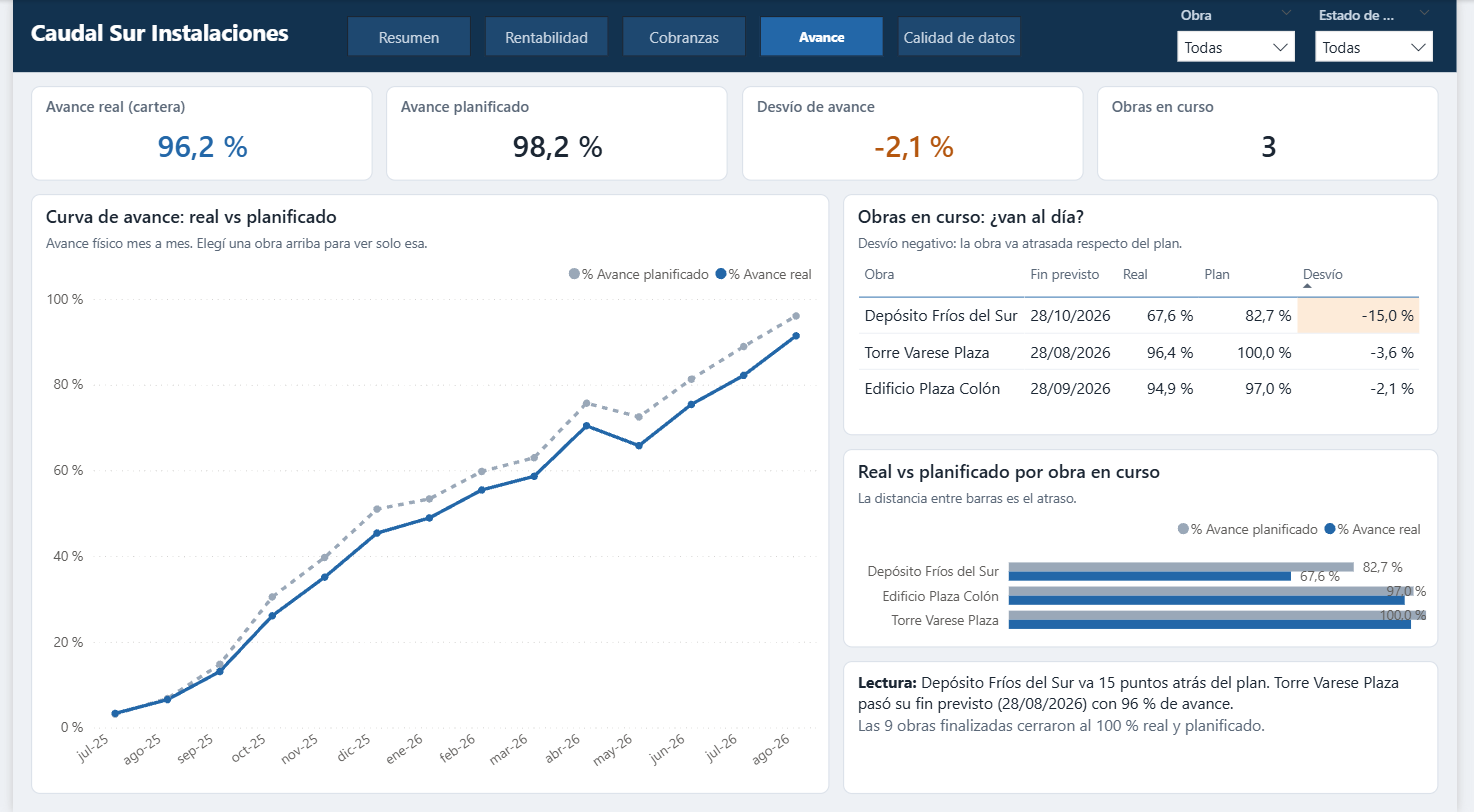
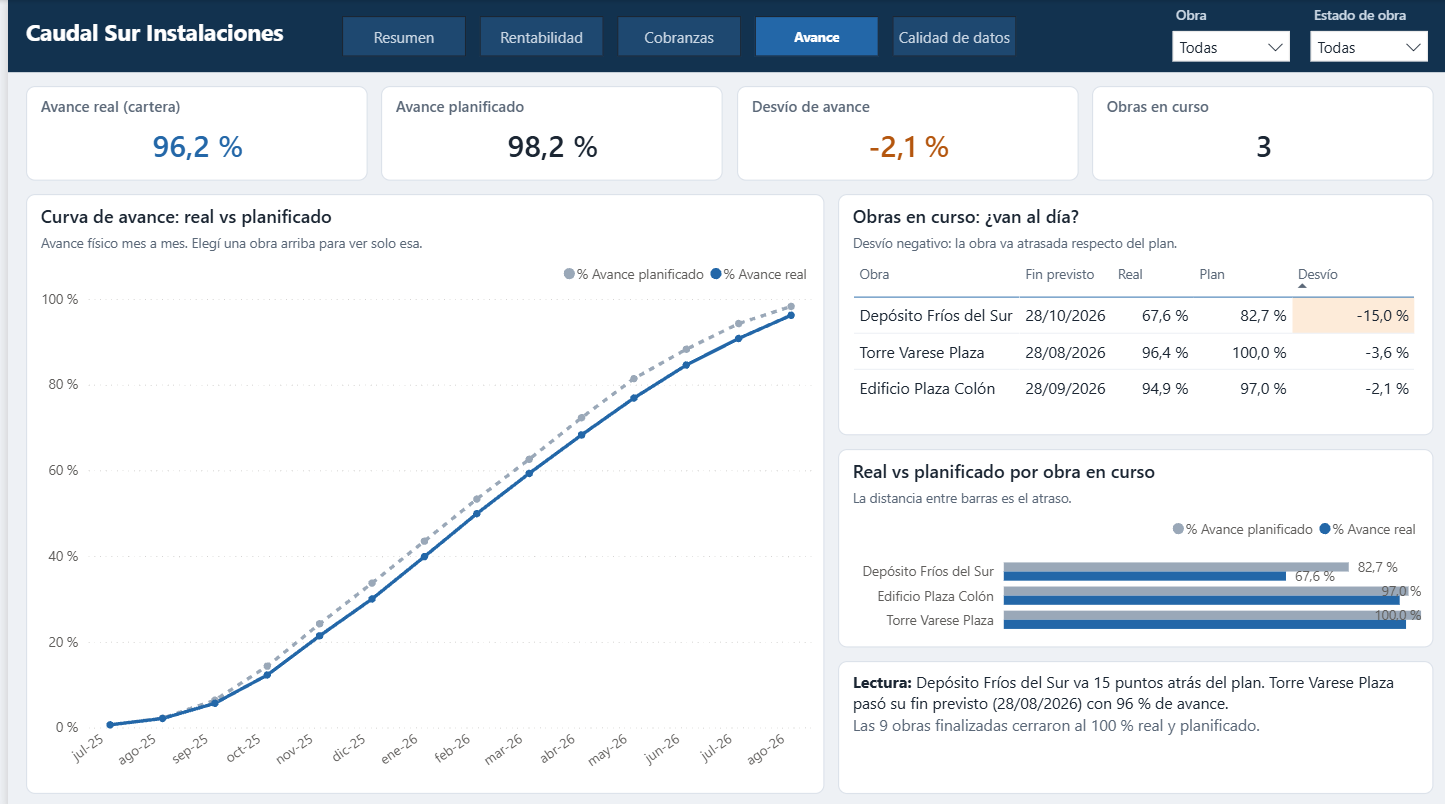
Curva de avance de la cartera acumulada
El avance real y planificado de la cartera toma el último valor de cada obra hasta el cierre del período, ponderado por precio de contrato: la curva ya no baja y su último mes coincide con las tarjetas. Captura de Avance actualizada.

diff --git a/README.md b/README.md
@@ -75,7 +75,7 @@ Las medidas están en una tabla aparte, organizadas en carpetas:
 - **Certificaciones**: certificado, cobrado, pendiente de cobro, saldo a cobrar acumulado al cierre de cada mes, % cobrado y días promedio de cobro.
 - **Rentabilidad**: margen bruto y margen %.
 - **Presupuesto y CAC**: índice CAC del período, presupuesto y precio de contrato actualizados, gastos a valores base, presupuesto devengado y desvío de costo.
-- **Avance**: avance real, avance planificado y desvío, ponderados por precio de contrato cuando se mira más de una obra.
+- **Avance**: avance real, avance planificado y desvío. Con varias obras es el avance acumulado de toda la cartera: cada obra aporta su último avance informado (las terminadas, 100 %; las que no empezaron, 0 %), ponderado por su precio de contrato. Por eso la curva nunca baja y su último mes coincide con las tarjetas.
 
 Dos decisiones importantes:
 
